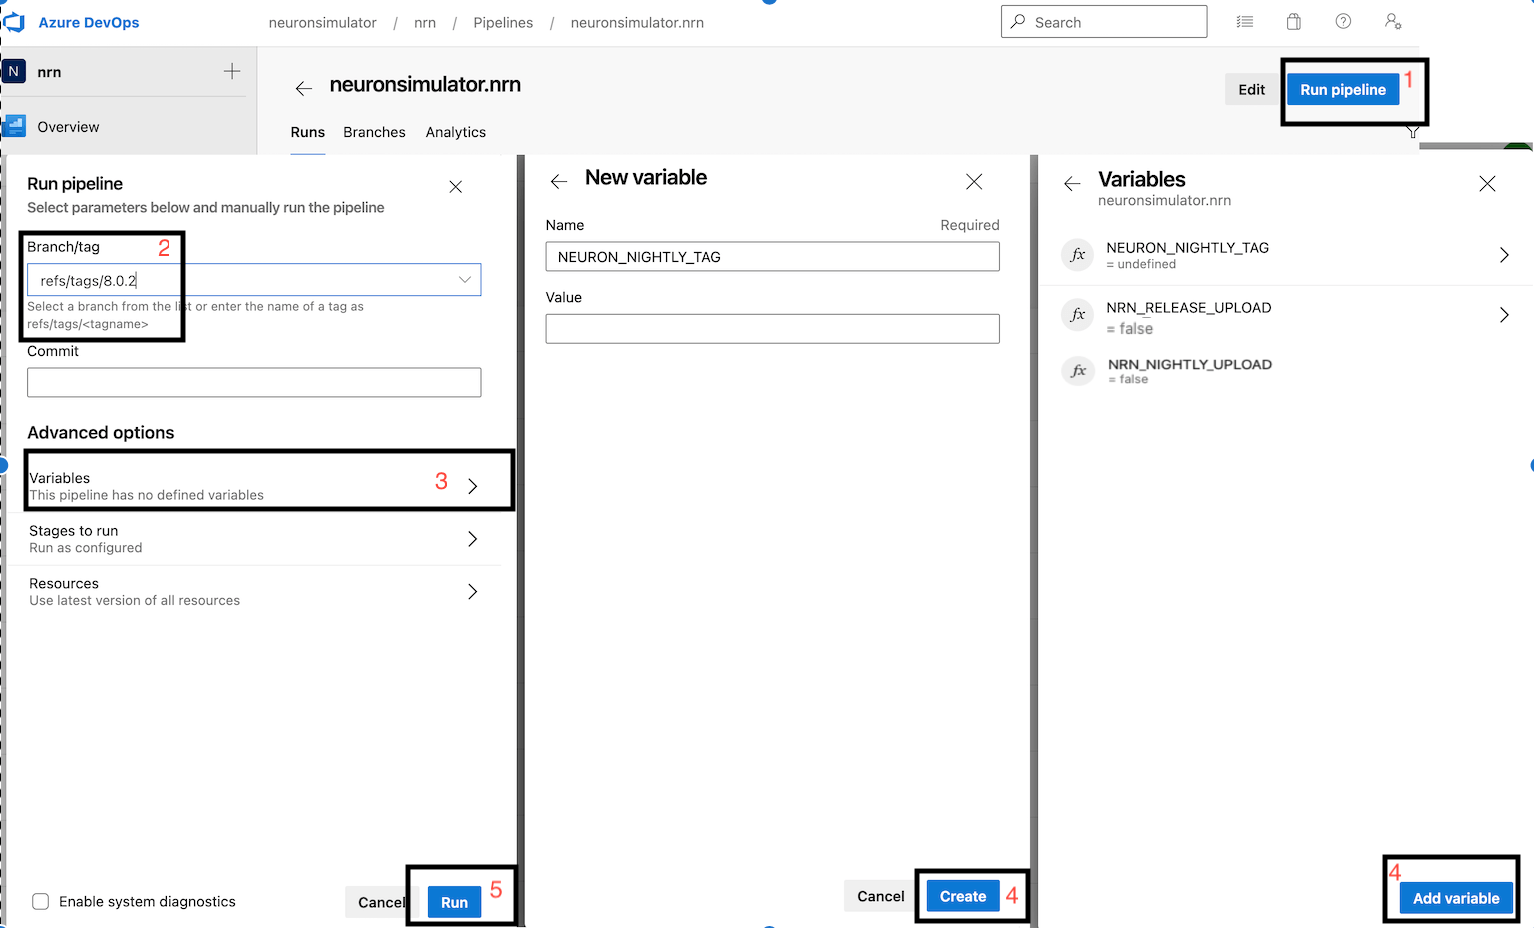
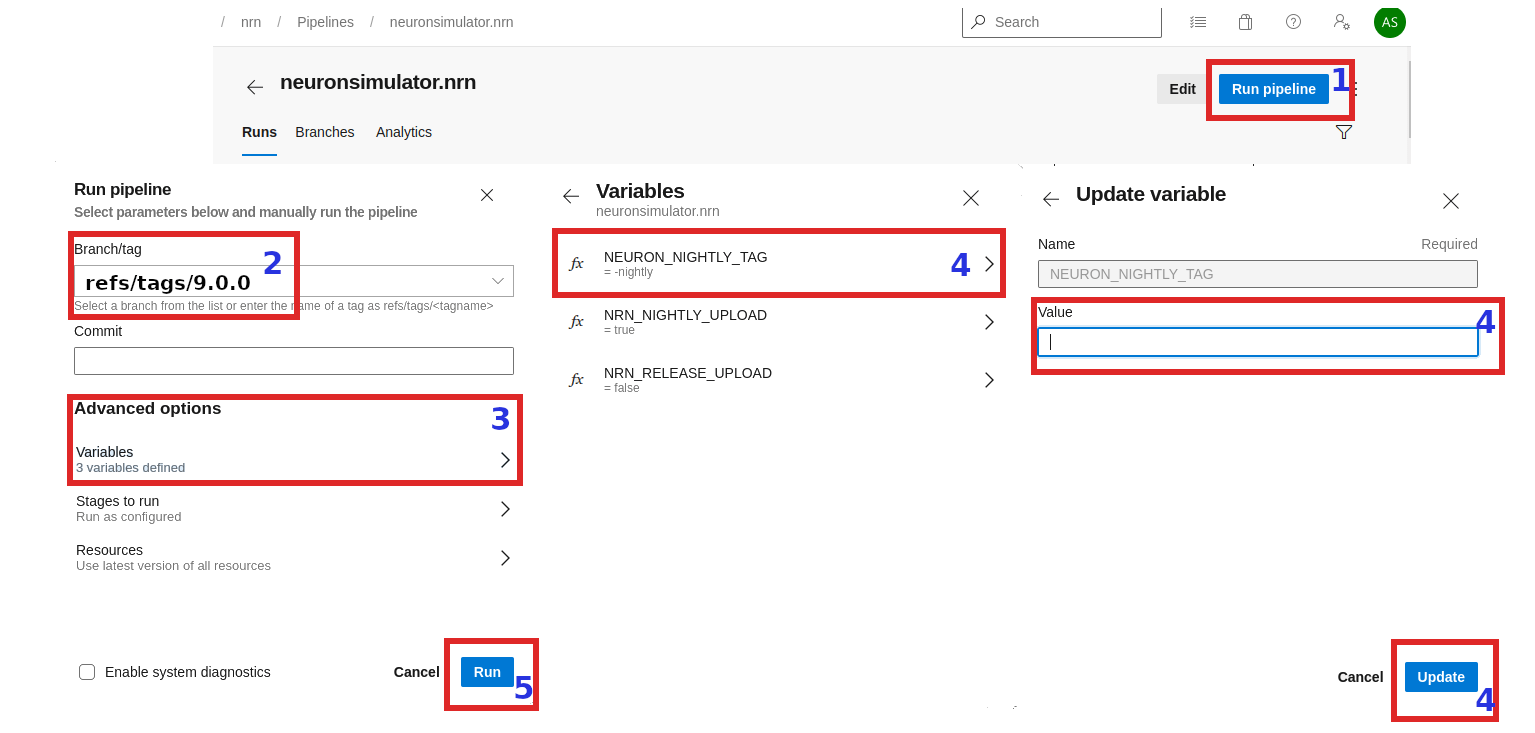
Azure: pipeline release variables handling update

diff --git a/docs/install/python_wheels.md b/docs/install/python_wheels.md
@@ -208,19 +208,28 @@ Similar to BB5, the wheel can be tested on any desktop system provided that NVHP
 
 ## Publishing the wheels on Pypi via Azure
 
+### Variables that drive PyPI upload
+
+We need to manipulate the following three predefined variables, listed hereafter with their default values:
+   * `NRN_NIGHTLY_UPLOAD` : `true`
+   * `NRN_RELEASE_UPLOAD` : `false`
+   * `NEURON_NIGHTLY_TAG` : `-nightly`
+
+### Release wheels
+
 Head over to the [neuronsimulator.nrn](https://dev.azure.com/neuronsimulator/nrn/_build?definitionId=1) pipeline on Azure.
 
 After creating the tag on the `release/x.y` or on the `master` branch, perform the following steps:
 
 1) Click on `Run pipeline`
 2) Input the release tag ref `refs/tags/x.y.z`
-3) Click on `Variables`
-4) We need to define three variables:
+3) Click on `Advanced options` then select `Variables`
+4) Update driving variables to:
    * `NRN_NIGHTLY_UPLOAD` : `false`
    * `NRN_RELEASE_UPLOAD` : `false`
    * `NEURON_NIGHTLY_TAG` : undefined (leave empty)
 
-   Do so by clicking `Add variable`, input the variable name and optionally the value and then click `Create`.
+   Do so by clicking `Variables` in `Advanced options` and update/clear the variable values.
 5) Click on `Run`
 
 ![](images/azure-release-no-upload.png)
@@ -230,7 +239,6 @@ With above, wheel will be created like release from the provided tag but they wo
    * `NRN_RELEASE_UPLOAD` : `true`
    * `NEURON_NIGHTLY_TAG` : undefined (leave empty)
 
-![](images/azure-release.png)
 
 
 ## Publishing the wheels on Pypi via CircleCI
@@ -272,4 +280,3 @@ The reason we are setting `NEURON_WHEEL_VERSION` to a desired version `8.1a` bec
 ## Nightly wheels
 
 Nightly wheels get automatically published from `master` in CRON mode.
-
